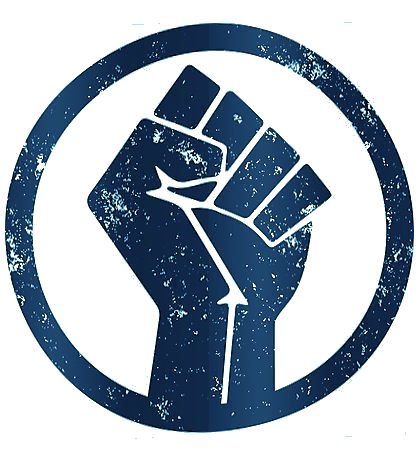
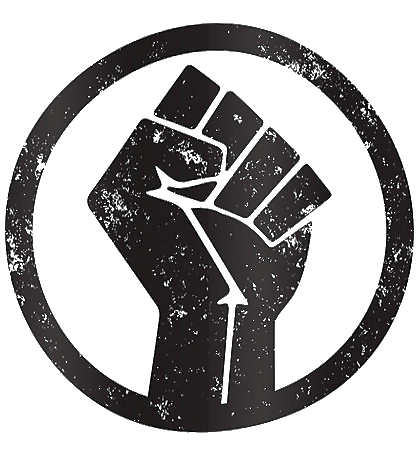
switched colors

diff --git a/src/app/home/home.component.scss b/src/app/home/home.component.scss
@@ -3,8 +3,8 @@ $header-font: 'Fjalla One', sans-serif;
 $body-font: 'Lato', sans-serif;
 
 //colors
-$red: #c91435;
-$blue: #103556;
+$red : #FF0009;
+$blue: #1ef3f1;
 $white: #f6f7eb;
 $yellow: #ffd449;
 $black: #2b2b2b;
@@ -29,7 +29,7 @@ $connect-blue: #0353A4;
     font-family: $body-font;
     color: $blue;
     h2{
-      color: $blue;
+      color: $black;
       letter-spacing: 4px;
       font-size: 4.7em;
     }
@@ -39,7 +39,7 @@ $connect-blue: #0353A4;
       margin-top: auto;
       margin-bottom: auto;
       i{
-        color: $blue;
+        color: darken($blue, 10%);
       }
     }
     .overlay {
@@ -122,7 +122,7 @@ $connect-blue: #0353A4;
         transform: scale(1.1,1.1);
       }
       &:after {
-        background-color: $connect-blue;
+        background-color: $blue;
         transition-duration: 0.2s;
         transition-timing-function: initial;
         transition-delay: initial;
@@ -141,6 +141,7 @@ $connect-blue: #0353A4;
     font-family: $header-font;
     letter-spacing: 1.5px;
     font-size: 2em;
+
   }
   p {
     font-family: $body-font;
@@ -168,11 +169,11 @@ $connect-blue: #0353A4;
       h4 {
         font-family: $header-font;
         letter-spacing: 2px;
-        color: darken($blue, 20%);
+        color: darken($blue, 10%);
       }
       p {
         font-family: $body-font;
-        color: $blue;
+        color: black;
       }
       background-color: white;
       // padding:  45px;
@@ -271,11 +272,11 @@ $connect-blue: #0353A4;
       h4 {
         font-family: $header-font;
         letter-spacing: 2px;
-        color: darken($blue, 20%);
+        color: darken($blue, 10%);
       }
       p {
         font-family: $body-font;
-        color: $blue;
+        color: $black;
         margin-left: 2%;
       }
 
@@ -307,16 +308,17 @@ $connect-blue: #0353A4;
     padding:  45px;
     position: relative;
     margin-right: 20px;
-    border: 3px solid $connect-blue;
+    border: 3px solid $blue;
 
     h4 {
       font-family: $header-font;
       letter-spacing: 2px;
-      color: darken($blue, 20%);
+      color: darken($blue, 10%);
     }
     p {
       font-family: $body-font;
-      color: $blue;
+      color: $black;
+      margin-left: 2%;
     }
 
     .overlay {

diff --git a/src/app/app.component.scss b/src/app/app.component.scss
@@ -3,8 +3,8 @@ $header-font: 'Fjalla One', sans-serif;
 $body-font: 'Lato', sans-serif;
 
 //colors
-$red: #c91435;
-$blue: #103556;
+$red : #FF0009;
+$blue: #1ef3f1;
 $white: #f6f7eb;
 $yellow: #ffd449;
 $black: #2b2b2b;
@@ -41,10 +41,15 @@ nav {
     color: $blue !important;
     &:hover {
       color: $red !important;
+      #plus {
+
+          color: darken($blue, 10%)
+
+      }
     }
   }
   .brand-logo{
-    color: $blue !important;
+    color: darken($blue, 10%) !important;
     letter-spacing: .5px;
   }
   ul{
